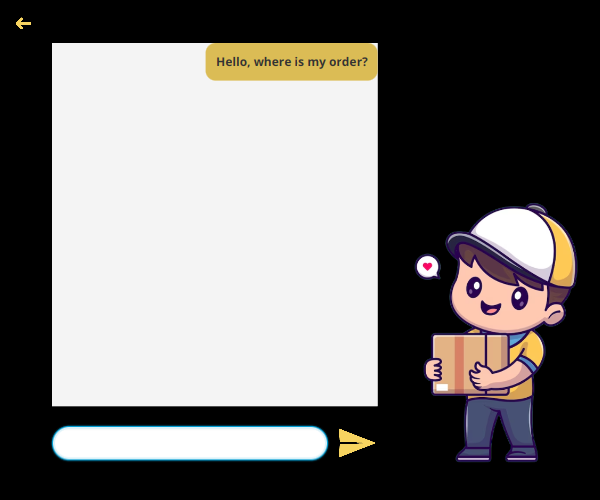
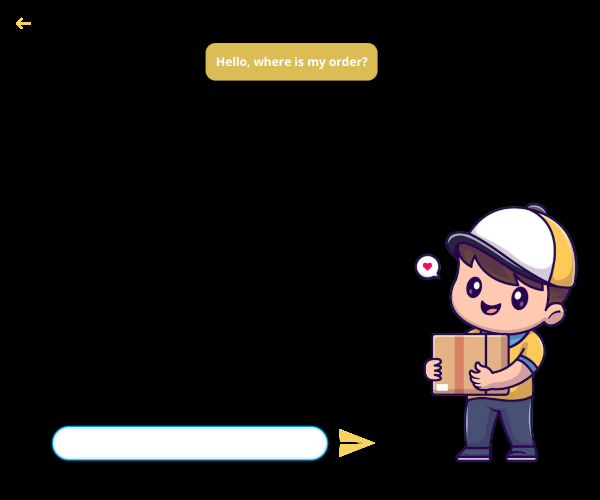
Transparent chat background, update screenshots

diff --git a/src/mobilefood/customer/ChatPageController.java b/src/mobilefood/customer/ChatPageController.java
@@ -185,13 +185,11 @@ public class ChatPageController {
         scrollPane.setLayoutY(25);
         scrollPane.setPrefHeight(397);
         scrollPane.setPrefWidth(360);
-        scrollPane.setStyle("-fx-background-radius: 10px;");
-        scrollPane.setStyle("-fx-border-radius: 10px;");
+        scrollPane.setStyle("-fx-background: transparent; -fx-background-color: transparent; -fx-background-radius: 10px;");
 
         vBox = new VBox(12);
         vBox.setPrefWidth(344);
-        vBox.setStyle("-fx-background-radius: 10px;");
-        vBox.setStyle("-fx-border-radius: 10px;");
+        vBox.setStyle("-fx-background-color: transparent;");
         scrollPane.setContent(vBox);
 
         text = new TextField();

diff --git a/src/mobilefood/restaurant/ChatListController.java b/src/mobilefood/restaurant/ChatListController.java
@@ -105,13 +105,11 @@ public class ChatListController {
         scrollPane.setLayoutY(25);
         scrollPane.setPrefHeight(397);
         scrollPane.setPrefWidth(360);
-        scrollPane.setStyle("-fx-background-radius: 10px;");
-        scrollPane.setStyle("-fx-border-radius: 10px;");
+        scrollPane.setStyle("-fx-background: transparent; -fx-background-color: transparent; -fx-background-radius: 10px;");
 
         vBox = new VBox(12);
         vBox.setPrefWidth(344);
-        vBox.setStyle("-fx-background-radius: 10px;");
-        vBox.setStyle("-fx-border-radius: 10px;");
+        vBox.setStyle("-fx-background-color: transparent;");
         scrollPane.setContent(vBox);
 
         text = new TextField();

diff --git a/src/mobilefood/customer/TextPageController.java b/src/mobilefood/customer/TextPageController.java
@@ -45,6 +45,8 @@ public class TextPageController {
         ScrollStyle.apply(scrollPane);
         vBox = new VBox(12);
         scrollPane.setContent(vBox);
+        scrollPane.setStyle("-fx-background: transparent; -fx-background-color: transparent;");
+        vBox.setStyle("-fx-background-color: transparent;");
 
         scrollPane.setPrefWidth(325);
         scrollPane.setPrefHeight(363);
